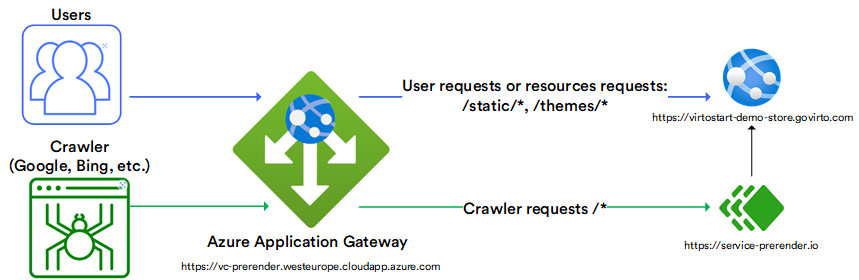
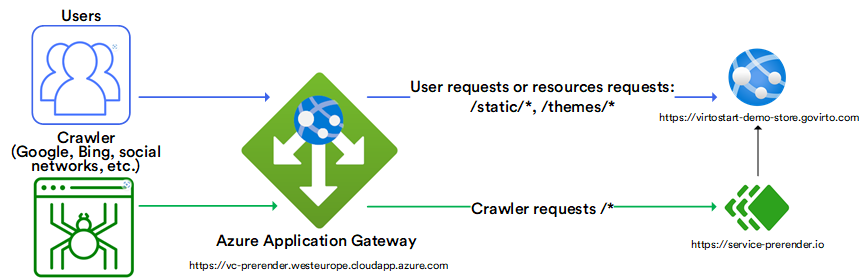
Prerender.io_2

diff --git a/dev_docs/docs/Tutorials-and-How-tos/How-tos/setting-up-prerender-io-with-azure-app-gateway.md b/dev_docs/docs/Tutorials-and-How-tos/How-tos/setting-up-prerender-io-with-azure-app-gateway.md
@@ -4,7 +4,7 @@
 
 ![Readmore](media/readmore.png){: width="25"} [Enhancing SEO with Prerender.io](../../storefront-development/integrations/prerender_io.md)
 
-In this guide, we will learn how to set up [Prerender.io](http://Prerender.io) with Azure Application Gateway for our https://virtostart-demo-store.govirto.com single-page application using the Azure Portal.
+This tutorial provides an overview of the steps involved in creating a reverse proxy using Azure Application Gateway to make your single-page application SEO-friendly by using Prerender Seamlessly Renders JavaScript for Faster Indexing for efficient rendering. Following these steps, we will deploy a public proxy, accessible by the https://vc-prerender.westeurope.cloudapp.azure.com URL, that will forward requests to virtostart-demo-store.govirto.com using the prerendering capabilities provided by the Prerender.io service.
 
 ![Scheme](media/prerender-io-scheme.png)
 
@@ -12,6 +12,8 @@ In this guide, we will learn how to set up [Prerender.io](http://Prerender.io) w
 
 * Azure subscription.
 * Prerender.io token. [Sign up](http://Prerender.io) to get your token.
+
+    ![Token](media/token.png)
 
 ## Set Up Prerender.io
 
@@ -40,11 +42,11 @@ To set up [Prerender.io](http://Prerender.io) with Azure Application Gateway:
 
 1. Configure **Backends**:
     1. Click **Add a backend pool**. In this case, we will add two example backend pools. 
-    1. Add a pool for the **service.prerender.io**. Fill in the fields as follows, then click **Add**.
+    1. Add a pool for the [service.prerender.io](http://service.prerender.io/). Fill in the fields as follows, then click **Add**:
     
         ![Add pool 1](media/pool1.png)
     
-    1. Add a pool for our downstream frontend https://virtostart-demo-store.govirto.com which runs as a single-page application written in Vue.js. Fill in the fields as follows, then click **Add**.
+    1. Add a pool for our downstream frontend https://virtostart-demo-store.govirto.com which runs as a single-page application written in Vue.js. This pool will be used to forward all requests to static theme resources directly to downstream service with bypassing prerender.io. Fill in the fields as follows, then click **Add**:
     
         ![Add pool 2](media/pool2.png)
     
@@ -55,11 +57,20 @@ To set up [Prerender.io](http://Prerender.io) with Azure Application Gateway:
     1. Click **Next:Configuration**.
 
 1. Manage **Configuration** to connect the frontend and backend pool you created using a routing rule:
-    1. Click **Add a routing rule** in the **Routing rules** column.
-    1. In the new window, fill in the fields in the **Listener** tab. Configure HTTPS settings to define how the Application Gateway should handle the incoming requests, then click **Add**. You must already have an ssl certificate issued for your public IP domain. In our case, we use the RSA certificate (.pfx) issued by the **ZeroSSL** service for the **vc-prerender.westeurope.cloudapp.azure.com** domain.
+    1. Click **Add a routing rule** in the **Routing rules** column. A single routing rule (path-based) that will forward by default all incoming requests to the service.prerender.io by default and all requests to the static resources with the paths matched to this pattern  `/static/*`,`/themes/*` directly to virtostart-demo-store.govirto.com.
+    1. In the new window, fill in the fields in the **Listener** tab. Fill in the fields as follows and switch to the **Backend targets** tab:
+
+        | Parameter      	| Value                                                              	|
+        |----------------	|--------------------------------------------------------------------	|
+        | Listener name  	| Enter *https_listener* for the name of the listener                	|
+        | Frontend IP    	| Select Public to choose the public IP you created for the frontend 	|
+        | Other settings 	| Accept the default values                                          	|
 
         ![Listener](media/routing-rule1.png)
     
+        Specify the existing SSL certificate, which was issued for your public domain. In our case, we use RSA certificate (.pfx) issued by the ZeroSSL service for the domain **vc-prerender.westeurope.cloudapp.azure.com**.
+
+
     1. In the **Backend targets** tab, fill in the fields as follows:
 
         ![Backend targets](media/routing-rule2.png)
@@ -68,11 +79,11 @@ To set up [Prerender.io](http://Prerender.io) with Azure Application Gateway:
 
         ![Backend settings](media/backend-settings.png) 
 
-    1. ???? Add a path
+    1. In the **Backend targets** tab, click **Add multiple targets to create a path-based rule**. Fill in the fields as follows:
 
         ![Path](media/path.png)
     
-    1. The path appears in the paths section:
+    1. The path appears in the paths section, and the rule looks as follows:
 
         ![Paths](media/path-section.png)
 
@@ -82,12 +93,10 @@ To set up [Prerender.io](http://Prerender.io) with Azure Application Gateway:
 
 1. Review your configurations and click **Create** to deploy the Application Gateway.
 
-1. Configure URL rewrite to redirect requests to **service.prerender.io**:
-
-    Once the application gateway is deployed, we need to redirect all incoming **GET** requests to **service.prerender.io**. 
+1. Configure **UrlRewrite** rules to redirect all incoming **GET** requests from public IP to **service.prerender.io**. 
 
     !!! Example
-        If a customer requests https://vc-prerender.westeurope.cloudapp.azure.com/catalog, our rewrite rule redirects and rewrites this request to https://service.prerender.io/https://virtostart-demo-store.govirto.com/catalog and add an **X-Prerender-Token header** with our auth token value to authorize these requests in the prerender.io service.
+        If a customer requests https://vc-prerender.westeurope.cloudapp.azure.com/catalog, our rewrite rule redirects and rewrites this request to https://service.prerender.io/https://virtostart-demo-store.govirto.com/catalog and adds an **X-Prerender-Token** header with our auth token value to authorize these requests in the prerender.io service.
 
     1. Select **All resources**, then select your recently created application gateway (**app-gateway**) in the list.
     1. Select **Rewrites** in the left panel, then click **Rewrite set**:
@@ -98,15 +107,58 @@ To set up [Prerender.io](http://Prerender.io) with Azure Application Gateway:
 
         ![Rewrite](media/rewrite-rule.png)
 
-    1. Add a rule to add the x-prerender-token header to each request:
+    1. Add a rule to add the **X-prerender-token** header to each request:
 
         ![Rule 1](media/rule1.png)
 
-    1. Add a rule to rewrite the path for all incoming requests according to this rule /https://virtostart-demo-store.govirto.com{var_uri_path} before sending to backend url service.prerender.io. 
+    1. Before sending all incoming requests to the backend url **service.prerender.io**, add a rule to rewrite the path for them according to this pattern: `/https://virtostart-demo-store.govirto.com{var_uri_path}`. 
 
         !!! Example
             The incoming request to the public url https://vc-prerender.westeurope.cloudapp.azure.com/foo will be redirected to https://service.prerender.io/https://virtostart-demo-store.govirto.com/foo after processing this rule.
 
         ![Rule 2](media/rule2.png)
 
-Prerender.io has been successfully set up!
+1. Verify result:
+    1. Check the result by navigating to https://vc-prerender.westeurope.cloudapp.azure.com. The original home page **virtostart-demo-store.govirto.com** should be open:
+
+        ![Frontpage](media/front-page.png)
+
+1. Examine the source code of the page to ensure that it has been pre-rendered by the server, eliminating the render-blocking delays typical of SPA applications. We'll set up a reverse proxy that passes all requests indiscriminately, without distinguishing between real users and web crawlers. However, this approach is not suitable for production scenarios. To refine the configuration and ensure that the pre-rendered version of the site is used exclusively by crawlers, additional URL rewrite rules must be included in the Application Gateway routing. These rules will inspect the user-agent header to see if it matches one of the specified values, such as `googlebot`, `bingbot`, etc. Requests will then be routed to **Prerender.io** only for these identified crawler requests.
+
+1. To configure to pre-render site for crawlers only, open **routing_rule** for edit:
+    1. For **Backend target**, select **virtostart-demo-store.govirto.com**. Now the AGW forwards all requests to the original site by default.
+    1. Add new path based rule:
+
+    | Parameter        	| Value                                        	|
+    |------------------	|----------------------------------------------	|
+    | Path             	| /https://virtostart-demo-store.govirto.com/* 	|
+    | Target name      	| service.prerender.io                         	|
+    | Backend settings 	| https_listener                               	|
+    | Backend target   	| service.prerender.io                         	|
+
+    ![Rule 3](media/routing-rule3.png)
+
+    The resulting routing rule should be as follows:
+
+    ![Result](media/routing-rule-result.png)
+
+1. Update the rewrite rule to forward requests to the **Prerender.io** service only if the **User-Agent** in the header matches one of the predefined values for crawlers:
+    1. Navigate to **Rewrites** and open the **prerender-rewrite-set** rewrite rule for editing.
+    1. Add a new condition with the following content. Use the following regular expression as the match pattern for the User-Agent header:
+
+        ```
+        (googlebot|bingbot|yandex|baiduspider|facebookexternalhit|twitterbot|rogerbot|linkedinbot|embedly|quora\ link\ preview|showyoubot|outbrain|pinterest\/0\.|pinterestbot|slackbot|vkShare|W3C_Validator|whatsapp|redditbot|applebot|flipboard|tumblr|bitlybot|skypeuripreview|nuzzel|discordbot|google\ page\ speed|qwantify|bitrix\ link\ preview|xing-contenttabreceiver|chrome-lighthouse|telegrambot|google-inspectiontool)
+        ```
+        ![New condition](media/new-condition.png)
+
+    1. Check the **Re-evaluate path map** for the last action in the rule set:
+
+        ![Re-evaluate](media/reevaluate.png)
+    
+    The resulting rewrite rule should be as follows:
+
+    ![Rewrite](media/resulting-rewrite.png)
+    
+After applying changes, check the result. To simulate crawler requests, use Postman, set the User-Agent header to googlebot, and check that the result contains the pre-rendered version of the site.
+
+![Postman](media/postman-token.png)
